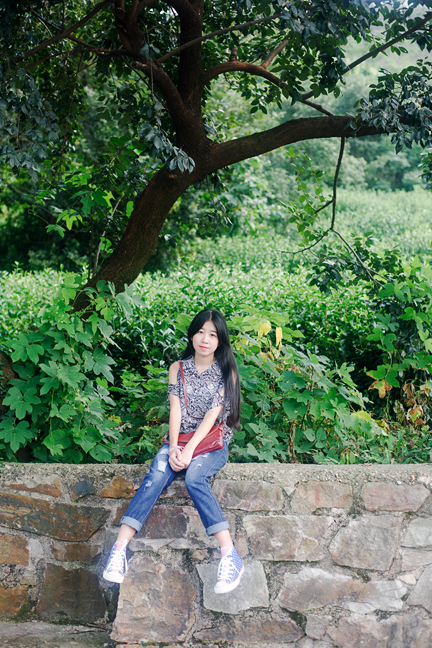
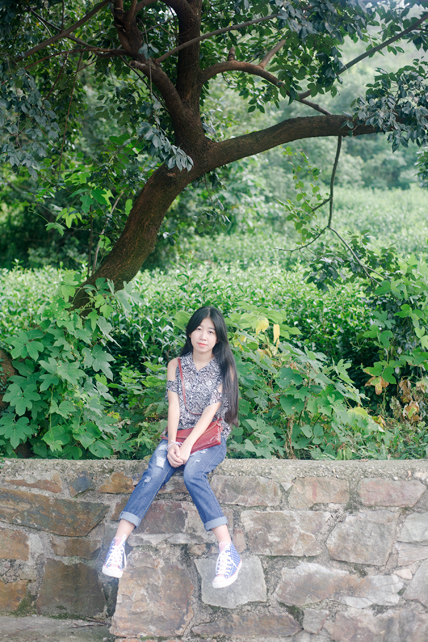
edit 45 article post.

diff --git a/article/post/45-prose.htm b/article/post/45-prose.htm
@@ -25,14 +25,33 @@
             <div id="css-e">
                 <table border="0" cellpadding="0" cellspacing="0" width="10">
                     <tr><td>
+                    <img src="../../img/photo/Girl-sitting-under-the-tree.jpg"> 
+                    </td></tr>
+                    <tr><td>
+                    <img src="../../images/myphoto/xiao-feng-6.jpg"> 
+                    </td></tr>
+                    <tr><td>
+                    <img src="../../images/myphoto/xiao-feng-1.jpg"> 
+                    </td></tr>
+                    <tr><td>
+                    <img src="../../images/myphoto/xiao-feng-5.jpg"> 
+                    </td></tr>
+                     <tr><td>
+                    <img src="../../images/myphoto/xiao-feng-7.jpg"> 
+                    </td></tr>
+                    <tr><td>
+                    <img src="../../images/myphoto/xiao-feng-2.jpg"> 
+                    </td></tr>
+                    <tr><td>
+                    <img src="../../images/myphoto/xiao-feng-3.jpg"> 
+                    </td></tr>
+                    <tr><td>
                     <table border="0" cellpadding="0" cellspacing="0" width="10">
                     <tr><td>
-                    <img src="../../img/photo/Girl-sitting-under-the-tree.jpg">
+                    <img src="../../images/myphoto/xiao-feng-4.jpg">
                     </td></tr>
                     <tr><td>
                     <div class="photoinfo"></div>
-                    </td></tr>
-                    </table>
                     </td></tr>
                     <tr><td><div class="bd2"><h2>小奉</h2><p>9月4日正是假期里，那天太阳透过厚厚的云层，光线显得有气无力，俗称淡水太阳。</p>
 <p>可这样的光线也挺适合拍摄人像。拍摄前几天就查询过天气预报，本以为会是完全的阴天，再凉爽一点就完美了，但那天的太阳还是倔强得透出了头。</p>
@@ -40,9 +59,11 @@
 <p>但相机和照片却并不会感知温度，所有我们感觉到的悲伤或快乐，炎热或寒冷等抽象事物都会被相机过滤掉，最终留存在照片中的只有实际的构成和光线轮廓。</p>
 <p>即便如此，摄影者仍希望通过人物的眼神，动作或表情去表达内在的情绪，去展现一些抽象。</p>
 <p>所以就算拍摄时像蒸桑拿般炎热，但最终照片中是决看不出来的。所以对摄影者来说，拍照时如何摒弃这些抽象因素，把注意力放在实际的构成，色彩和光线上才是更重要的。</p>
-<p>我希望这些照片给观看者的感觉是美好的，或者如果还能展现一点模特的特质那就更好了。
+<p>感谢模特在如此热浪中仍然优雅地完成拍摄。希望这些照片给观看者的感觉是美好的，或者如果还能展现一点模特的特质那就更好了。
 </p>
-</div><div class="meta">Written on 20150905 | Tag: <a href="../archive/prose1.htm">散文</a></div><div class="mess"><a href="http://www.douban.com/group/heimaphoto/" target="_blank">留言或讨论请点击这里</a></div></td></tr>                   <tr height="40"><td></td></tr> 
+</div><div class="meta">Written on 20150905 | Tag: <a href="../archive/prose1.htm">散文</a></div><div class="mess"><a href="http://www.douban.com/group/heimaphoto/" target="_blank">留言或讨论请点击这里</a></div></td></tr></table>
+                    </td></tr>
+                    <tr height="40"><td></td></tr> 
                     <tr height="5" align="right"><td><a href="../index.html">索引页</a> | <a href="./44-prose.htm">上一篇</a></td></tr>
                 </table>            
             </div>
